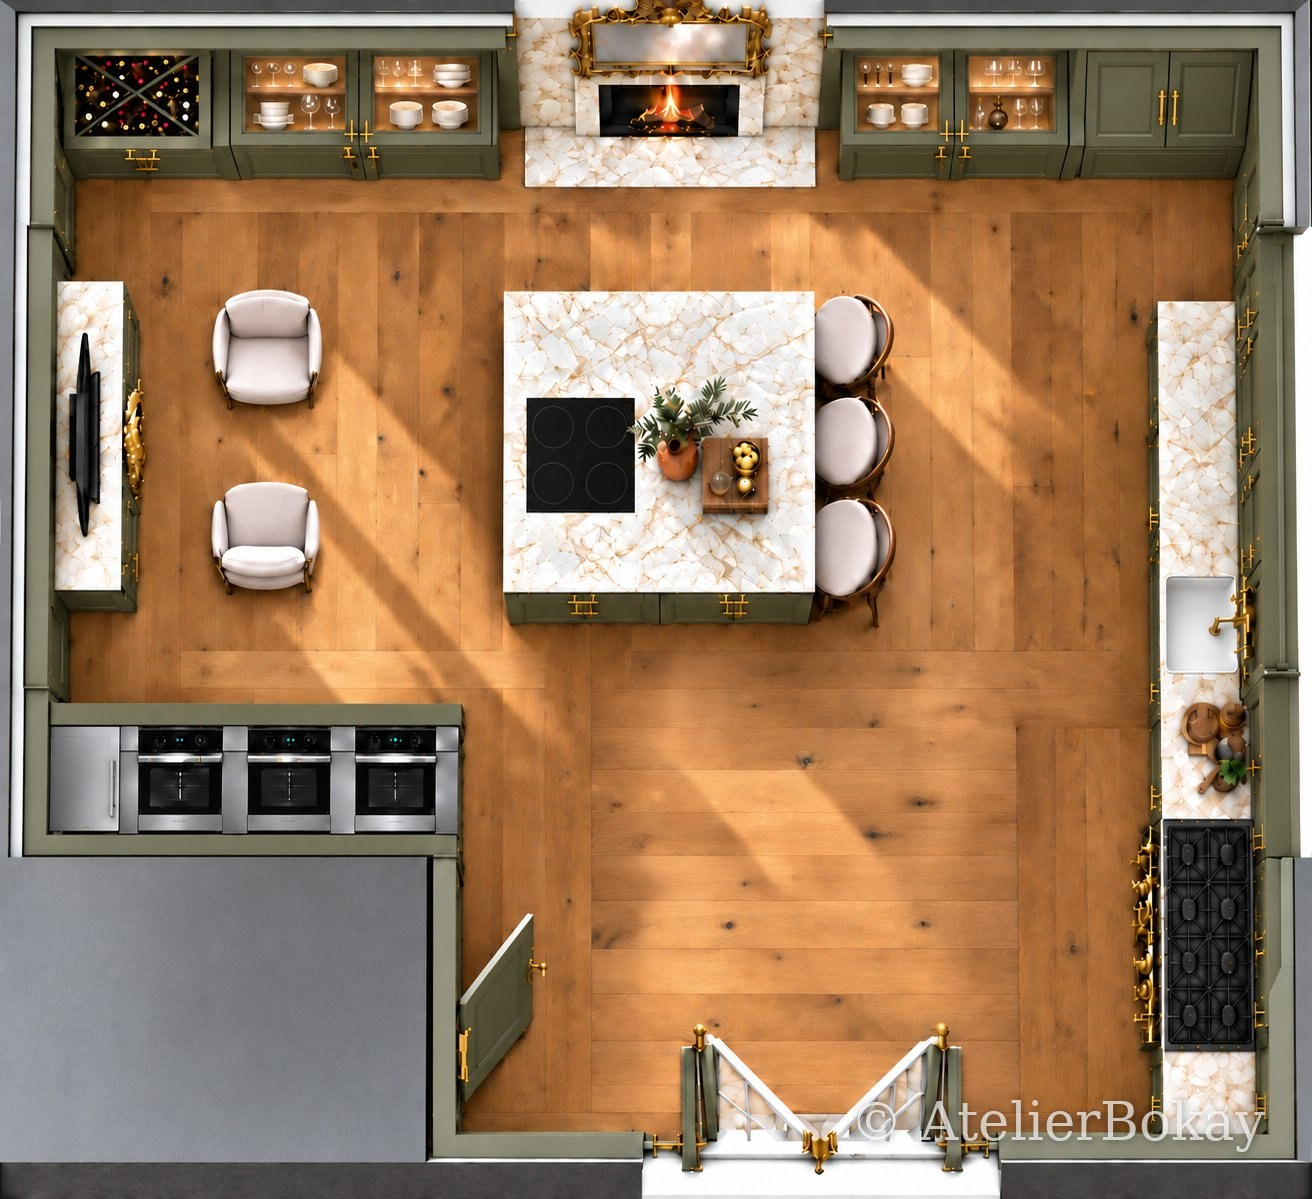
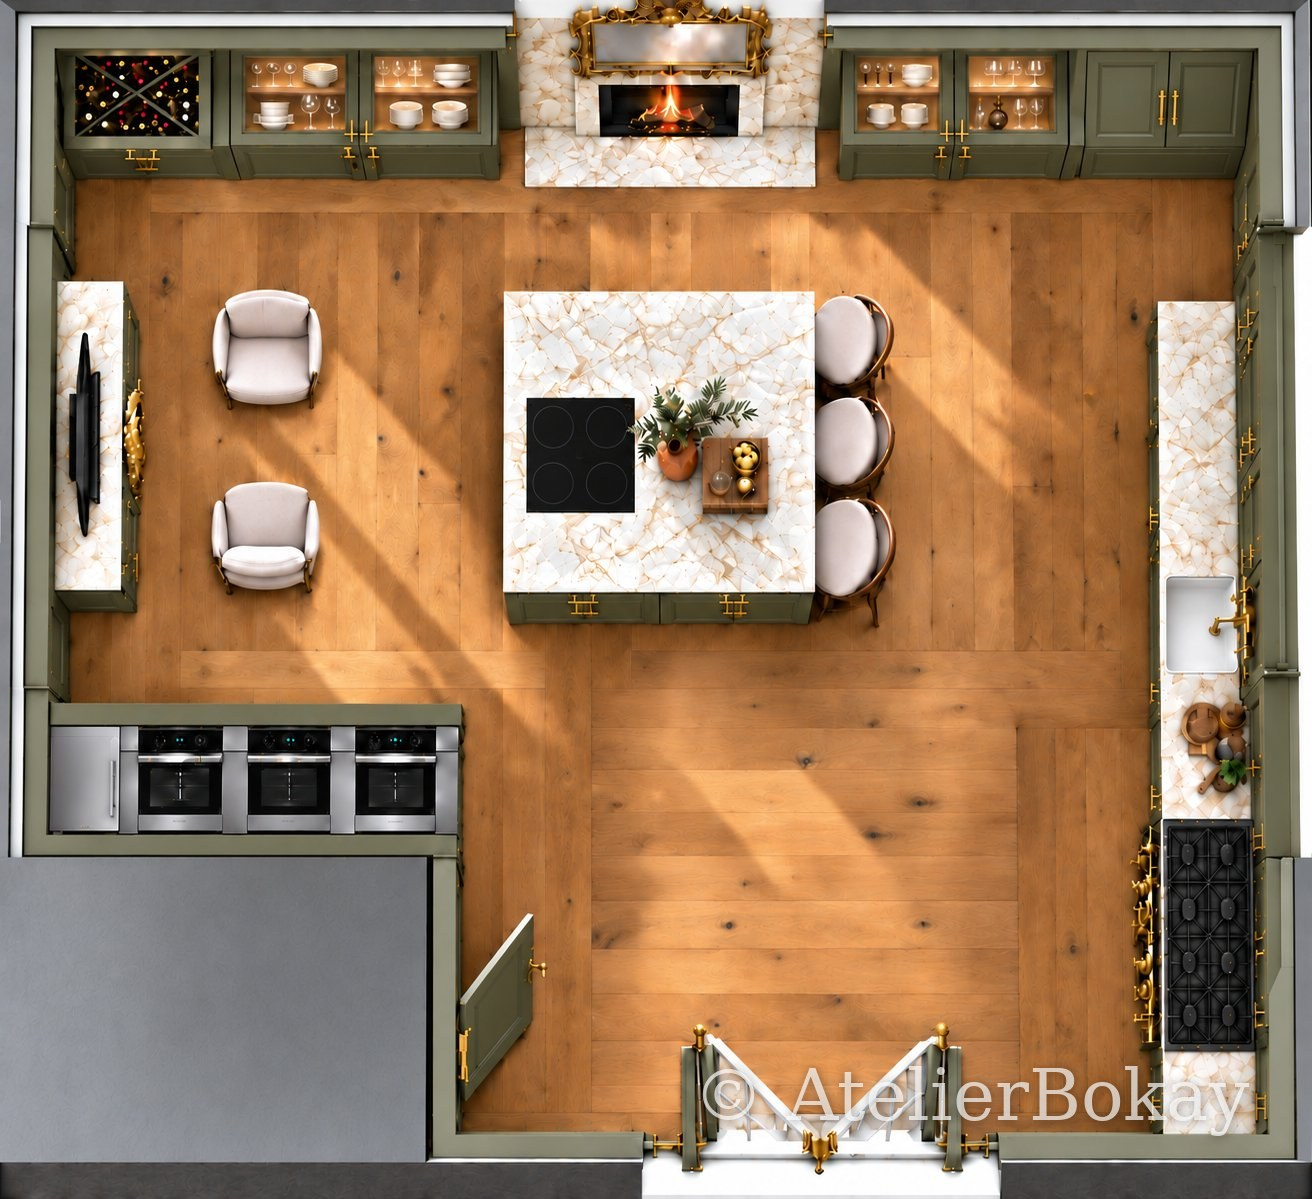
Filigrane agrandi sur les photos des réalisations
Claude-Session: https://claude.ai/code/session_018n4MMUQdNq5Bnf3Q3tfLxW

Changed region(s): [[0.5312, 0.8641, 0.9688, 0.9566]]

diff --git a/scripts/filigrane.py b/scripts/filigrane.py
@@ -16,7 +16,7 @@ TEXTE = "© AtelierBokay"
 def filigraner(chemin):
     im = ImageOps.exif_transpose(Image.open(chemin)).convert("RGB")
     w, h = im.size
-    taille = max(14, int(min(w, h) * 0.045))
+    taille = max(14, int(min(w, h) * 0.06))
     police = ImageFont.truetype(POLICE, taille)
     calque = Image.new("RGBA", im.size, (0, 0, 0, 0))
     d = ImageDraw.Draw(calque)
